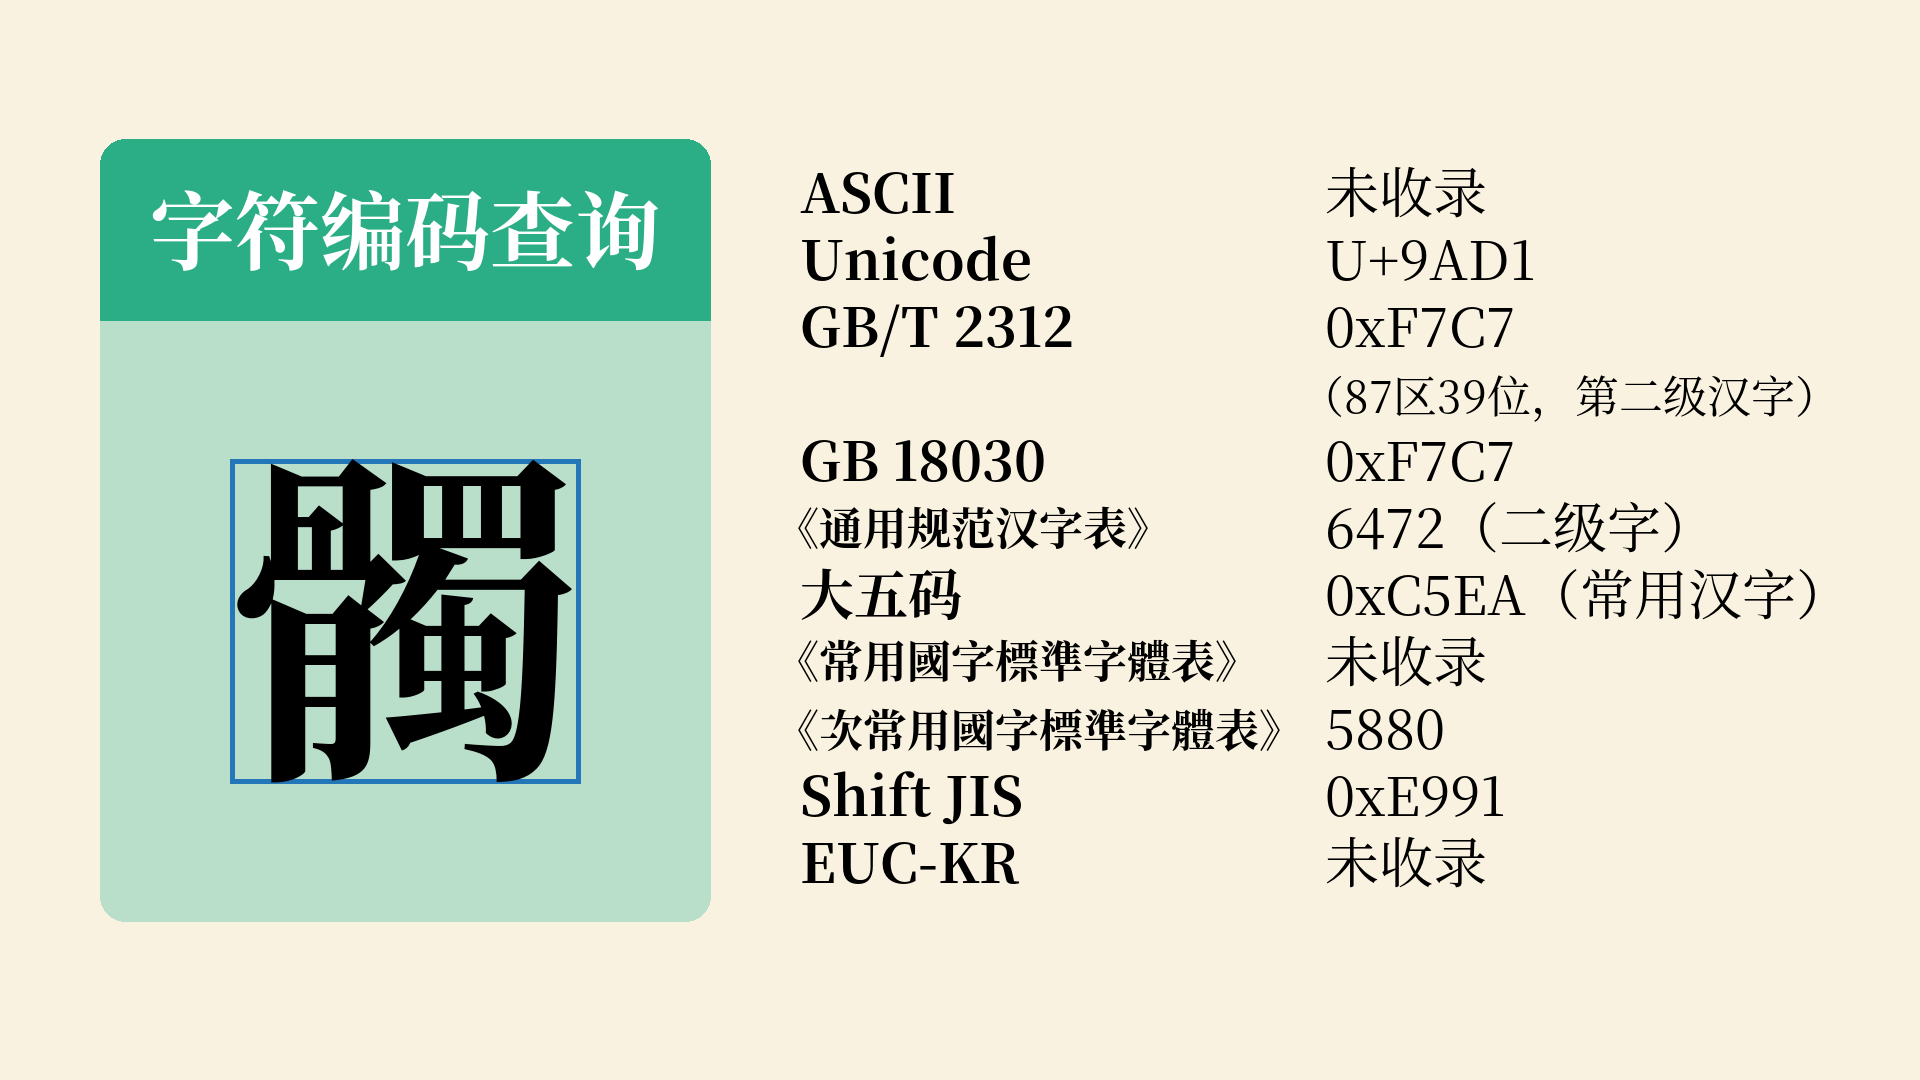
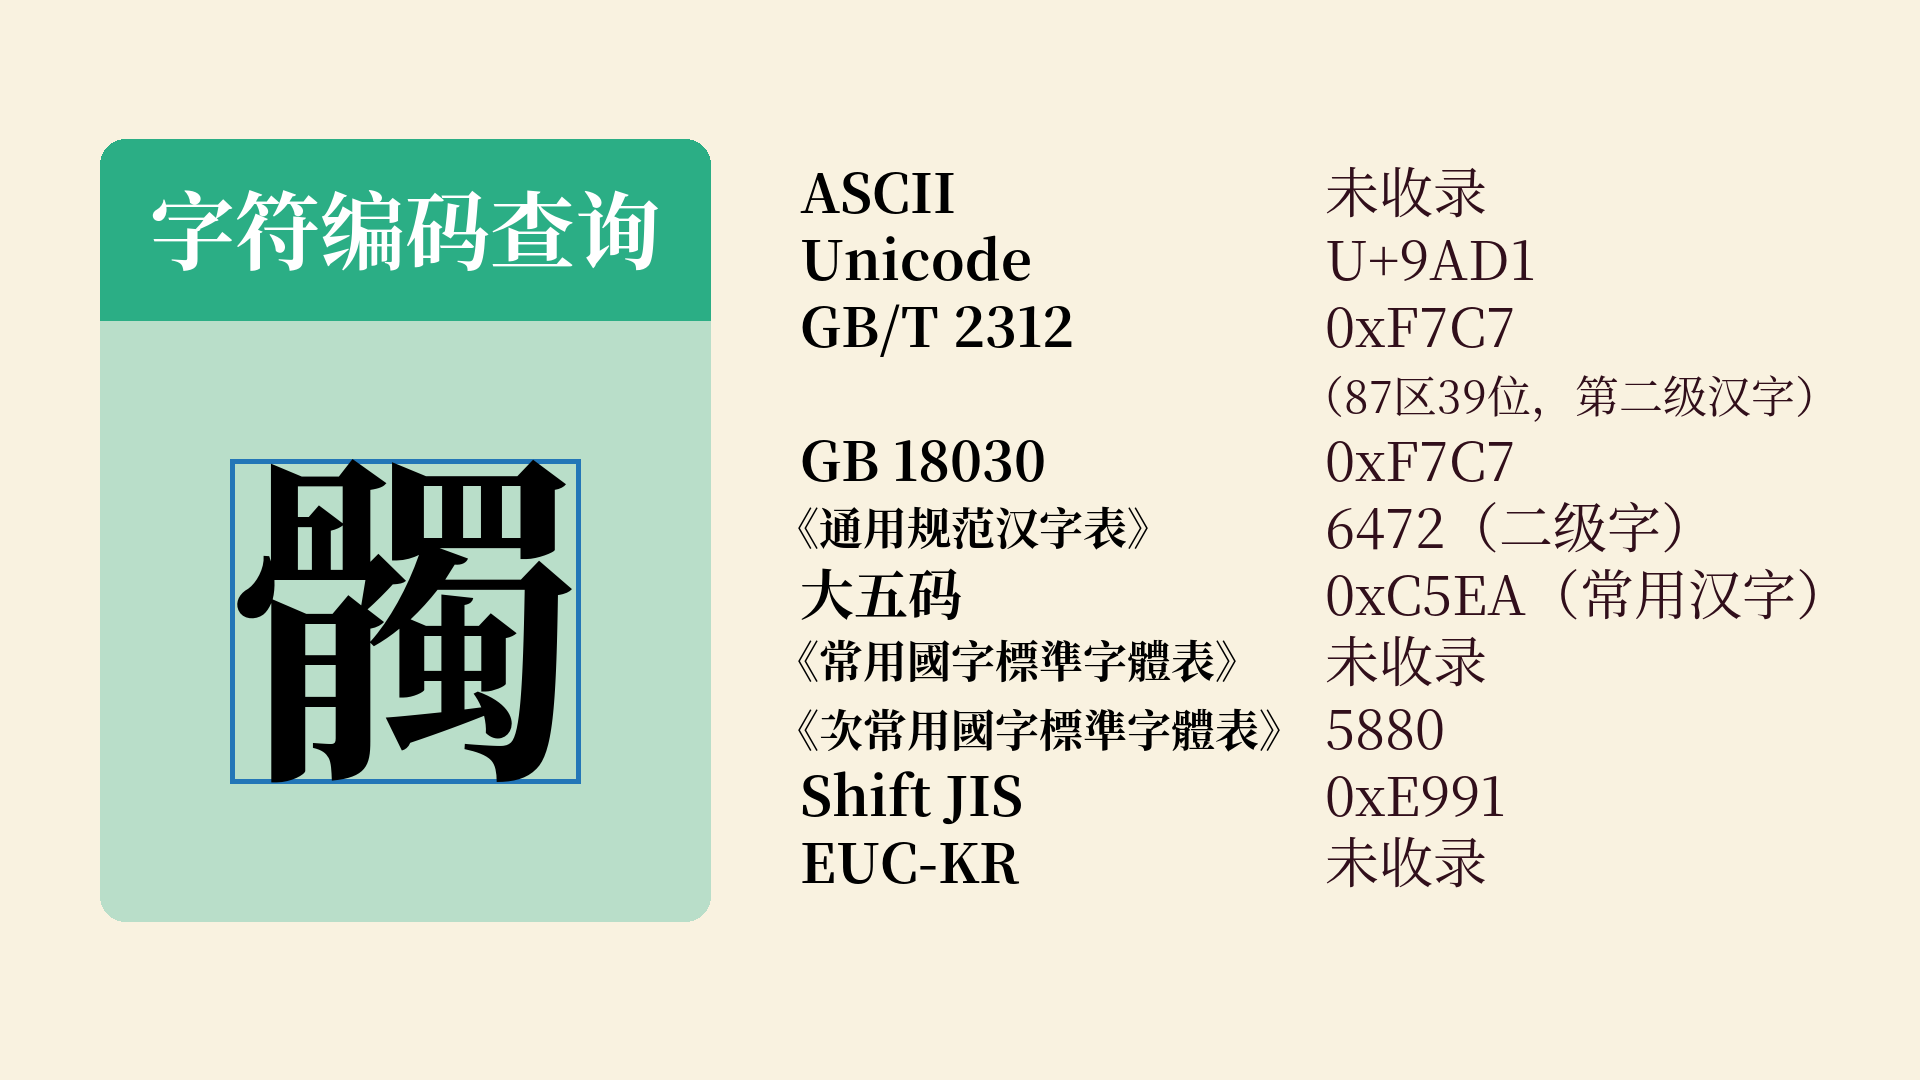
Add configuration feature

diff --git a/output_image.py b/output_image.py
@@ -1,6 +1,8 @@
 # -*- coding: UTF-8 -*-
 
 import os
+import tomllib
+import sys
 import unicodedata
 from PIL import Image, ImageDraw, ImageFont
 from fontTools.ttLib import TTFont
@@ -22,11 +24,29 @@ from get_encoding import (
 # 当前绝对路径
 P = os.path.abspath(os.path.dirname(os.path.abspath(__file__)) + os.path.sep + ".")
 
+# 加载配置
+if not os.path.exists(os.path.join(P, "configuration.toml")):
+    print("\n无法找到配置文件，请将配置文件放置在与此脚本同级的目录下。")
+    sys.exit()
+with open(os.path.join(P, "configuration.toml"), "rb") as f:
+    config = tomllib.load(f)
+
+background_color = config["color"]["background"]  # 背景颜色
+title_box_color = config["color"]["title_box"]  # 标题框颜色
+title_color = config["color"]["title"]  # 标题颜色
+character_color = config["color"]["character"]  # 查询字符的颜色
+character_outline_color = config["color"]["character_outline"]  # 查询字符外框线的颜色
+encoding_text_color = config["color"]["encoding_text"]  # 编码（表格第一列）文字颜色
+result_text_color = config["color"]["result_text"]  # 查询结果（表格第二列）文字颜色
+
+file_name = config["output"]["file_name"]  # 输出文件名
+output_folder = config["output"]["folder"]  # 输出文件夹
+
 # 字体文件路径
 FONT_PATH = os.path.join(P, "fonts")
 
 # 创建空白图片
-image = Image.new("RGB", (1920, 1080), (249, 242, 224))
+image = Image.new("RGB", [1920, 1080], background_color)
 draw = ImageDraw.Draw(image)
 
 # 添加标题
@@ -44,7 +64,7 @@ title_box_position = [
 ]
 draw.rounded_rectangle(
     title_box_position,
-    fill="#2bae85",
+    fill=title_box_color[0],
     radius=25,
     corners=(True, True, False, False),
 )
@@ -56,11 +76,11 @@ title_box_position_2 = [
 ]
 draw.rounded_rectangle(
     title_box_position_2,
-    fill="#b9dec9",
+    fill=title_box_color[1],
     radius=25,
     corners=(False, False, True, True),
 )
-draw.text(title_position, title, font=title_font, fill="white")
+draw.text(title_position, title, font=title_font, fill=title_color)
 
 # 字体
 text_size = 54
@@ -110,10 +130,13 @@ character_box_position = [
     title_box_position_2[1] + title_box_2_height / 2 + character_height / 2,
 ]
 # 字符外框线
-draw.rectangle(character_box_position, outline="#2376b7", width=5)
+draw.rectangle(character_box_position, outline=character_outline_color, width=5)
 # 字符
-character_position = (character_box_position[0], character_box_position[1] - character_bbox[1])
-draw.text(character_position, character, font=character_font, fill="black")
+character_position = (
+    character_box_position[0],
+    character_box_position[1] - character_bbox[1],
+)
+draw.text(character_position, character, font=character_font, fill=character_color)
 
 # 查询的结果
 encoding_list_1 = "\n".join(
@@ -131,24 +154,24 @@ encoding_list_1 = "\n".join(
         "EUC-KR",
     ]
 )
-draw.text((800, 150), encoding_list_1, font=text_font_bold, fill="black")
+draw.text((800, 150), encoding_list_1, font=text_font_bold, fill=encoding_text_color)
 draw.text(
     (775, 150 + text_size * 6 + 20),
     "《通用规范汉字表》",
     font=text_font_bold_small,
-    fill="black",
+    fill=encoding_text_color,
 )
 draw.text(
     (775, 150 + text_size * 8 + 45),
     "《常用國字標準字體表》",
     font=text_font_tc_bold_small,
-    fill="black",
+    fill=encoding_text_color,
 )
 draw.text(
     (775, 150 + text_size * 9 + 60),
     "《次常用國字標準字體表》",
     font=text_font_tc_bold_small,
-    fill="black",
+    fill=encoding_text_color,
 )
 
 output_1 = "\n".join(
@@ -167,9 +190,15 @@ output_1 = "\n".join(
     ]
 )
 output_2 = output_gb2312_2
-draw.text((1325, 150), output_1, font=text_font, fill="black")
-draw.text((1300, 150 + text_size * 3 - 5), output_2, font=text_font_small, fill="black")
+draw.text((1325, 150), output_1, font=text_font, fill=result_text_color)
+draw.text(
+    (1300, 150 + text_size * 3 - 5),
+    output_2,
+    font=text_font_small,
+    fill=result_text_color,
+)
 
 # 保存图片
-with open(os.path.join(P, "output.png"), "wb") as f:
+os.makedirs((os.path.join(P, output_folder)), exist_ok=True)  # 创建输出文件夹（若不存在）
+with open(os.path.join(P, output_folder, file_name), "wb") as f:
     image.save(f)

diff --git a/get_encoding.py b/get_encoding.py
@@ -2,15 +2,13 @@
 
 import os
 
-P = (
-    os.path.abspath(os.path.dirname(os.path.abspath(__file__)) + os.path.sep + ".")
-    + os.path.sep
-)  # 当前绝对路径
+# 当前绝对路径
+P = os.path.abspath(os.path.dirname(os.path.abspath(__file__)) + os.path.sep + ".")
 
 
 # 读取以文本文件存储的字符表
 def load_table(file_path):
-    with open(P + "table" + os.path.sep + file_path, "r", encoding="utf-8") as file:
+    with open(os.path.join(P, "table", file_path), "r", encoding="utf-8") as file:
         return [line.strip() for line in file]
 
 
